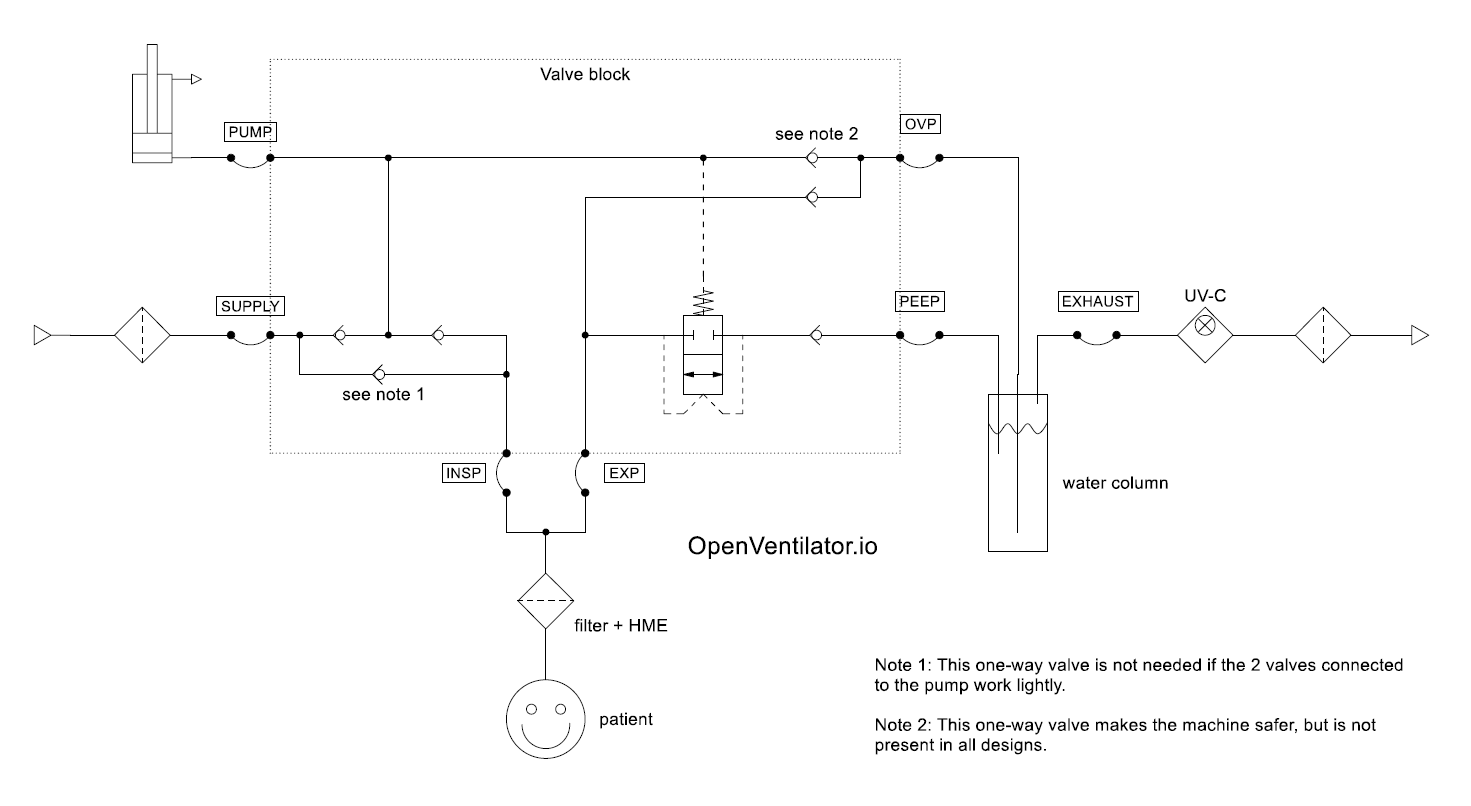
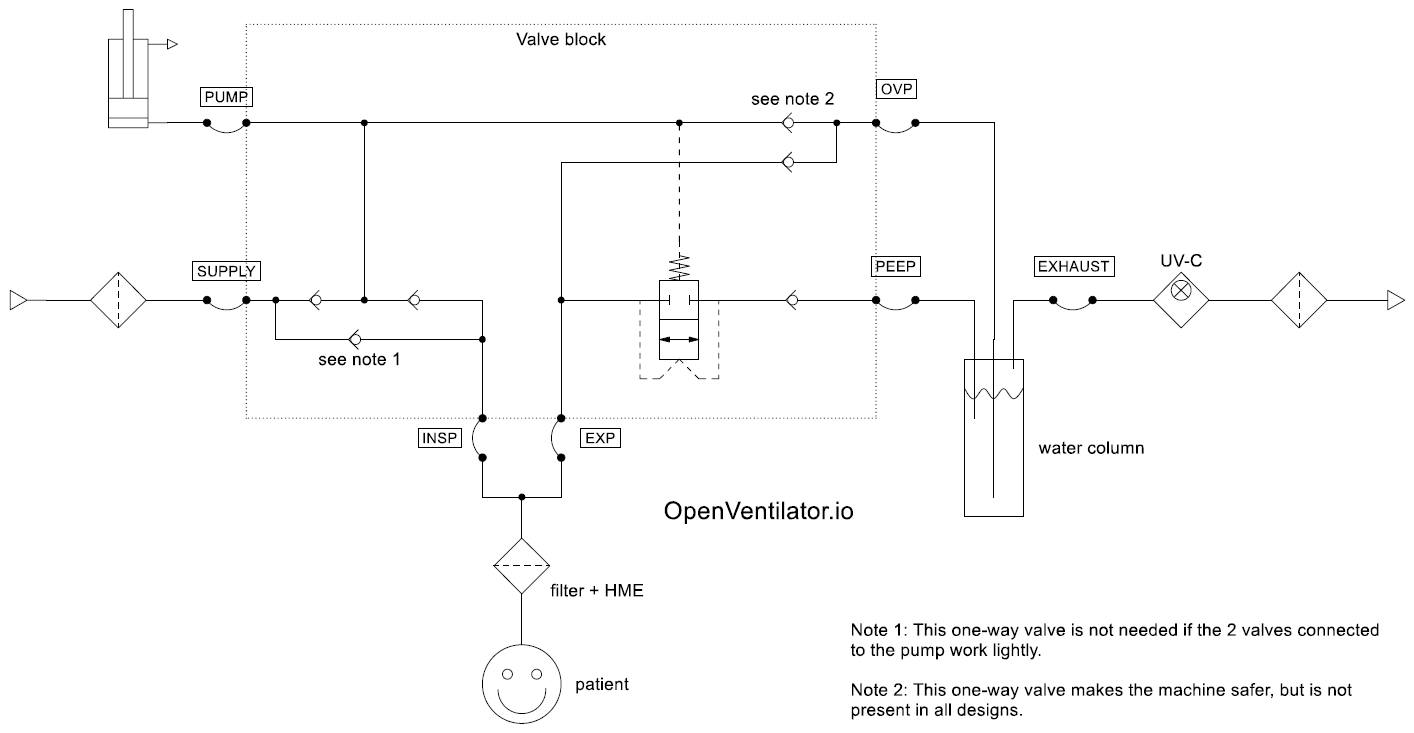
Added pneumatic flow diagrams per phase

diff --git a/SystemDescription.md b/SystemDescription.md
@@ -32,4 +32,74 @@ The [Spartan model documentation](OpenVentilator.io_Spartan_Model_Documentation.
 
 ## Functional description
 
-To be placed here.
+The pump system uses a crank that expands and compresses a bellows. Because it displaces a relatively fixed volume per stroke, and the intervals are very regular, we consider this a Volume Control (VC) mode ventilator. The volume displaced is influenced somewhat by the pressure in the patient's lungs. 
+
+### Electronics
+
+The electronics of the spartan model is very basic and only consist of a few diodes and switches. We have choosen not to do control by a microcontroller (yet), to keep the design simple and produceable anywhere. The Mk II model will have a microcontroller.
+
+TODO: add circuit diagram
+
+A diode creates a voltage drop when placed in series with a load such as a motor. We have placed multiple diodes in series connected to the power supply, so that we can have higher voltage drops. We have connected switches to these diodes, to be able to select the voltage drop we want to use.
+
+During the inspiration phase, the cam wheel on the motor of the machine does **not** press against the phase switch. In that case the _Inspiration speed_ rotary switch is used to determine the motor speed. 
+
+During the expiration phase, the cam wheel on the motor of the machine **does** press against the phase switch. In that case the _Expiration speed_ rotary switch is used to determine the motor speed. 
+
+### Pneumatics
+
+The full diagram is as follows. Next, you will see explained where air flows during each phase and occurence.
+
+![Pneumatic diagram](03_Pneumatics/images/OpenVentilatorPneumaticDiagram.png)
+
+A typical graph of lung pressure on our mechanical ventilator looks as follows.
+
+![pressure during cycle](03_Pneumatics/images/phases.png)
+
+You can see that during the inspiration phases, the pressure rises. Nearing the end of the phase, this stabilizes. The stable high pressure before the end of this phase is called the plateau pressure.
+
+Then the expiration starts. The air is released from the patient's lungs by the pressure of its body and his weight. The ventilator should not release all air from the patient's lungs, but keep a certain pressure on it, called PEEP (positive end-expiratory pressure). 
+
+#### Inspiration phase
+
+![flow during inspiration](03_Pneumatics/images/InspirationPhase.png)
+
+_Figure: Inspiration phase, normal condition_
+
+During inspiration, the pump creates pressure. The one-way valve from the SUPPLY to the PUMP port closes, and the from PUMP to patient opens. The lungs of the patient get filled. This stops, when either the pump has reach the end of its stroke, or the pressure in the respiratory channel of the patient has reached the set maximum pressure. 
+
+The channel from patient to the PEEP port is blocked by the valve that we'll call a transistor valve. This valve closes when there is pressure on the PUMP port, relative to the EXP and PEEP ports. The PUMP pressure is always higher than the PEEP pressure during the inspiration phase, so the valve is closed.
+
+#### Expiration phase
+
+![flow during expiration](03_Pneumatics/images/ExpirationPhase.png)
+
+_Figure: Expiration phase, normal condition_
+
+During the expiration phase, the pump is filling itself again with fresh air. The pressure on the pump is low, and as a consequence the one-way valve from SUPPLY to PUMP is open, and the one from PUMP to INSP is closed. 
+
+Because the pressure on the PUMP port is low (even lower than the ambient pressure since it is sucking in air from ambient), the transistor valve is now open. This means that the air from the patient's lungs can now escape via the PEEP port to the water column. Here, the pressure is/becomes equal to the hydrostatic pressure from the tube in the water. The set depth of the tube determines the PEEP pressure. There is a one-way valve in this line, so that the PEEP pressure stays present in the tube for some time after expiration. This prevents excessive water level changes.
+
+#### Special conditions
+
+![flow during inspiration](03_Pneumatics/images/InspirationPhase-Overpressure.png)
+
+_Figure: Inspiration phase, overpressure condition_
+
+If the pump or lung pressure reaches the set maximum pressure, the air flows out via the OVP port to the water column. Here, the pressure is/becomes equal to the hydrostatic pressure from the tube in the water. The set depth of the tube determines the maximum pressure. There is a one-way valve in this line, so that the maximum pressure stays present in the tube for some time after the overpressure situation. This prevents excessive water level changes.
+
+The overpressure condition does not damage the machine. The set maximum pressure can even be used to get Pressure Control mode of ventilation, by selecting a large air displacement volume and a limited maximum pressure.
+
+![flow during inspiration](03_Pneumatics/images/InspirationPhase-PatientCoughs.png)
+
+_Figure: Inspiration phase, coughing condition_
+
+If the patient coughs during the inspiration phase, he can push air out through the one-way valve to the OVP port. 
+
+![flow during expiration](03_Pneumatics/images/ExpirationPhase-PatientInspires.png)
+
+_Figure: Expiration phase, patient inspires condition_
+
+If the patient autonomously inspires while the machine is still completing the expiration phase, the patient can suck in air from the SUPPLY port. If the valve block also has an added one-way valve from SUPPLY to INSP, the inspiration will be easier. 
+
+Note that there is currently **no Assist Control**. This is detection of inspiration attempts by the patient, which should trigger an immediate start of the inspiration phase, in that way assisting the patient in performing a breath.
